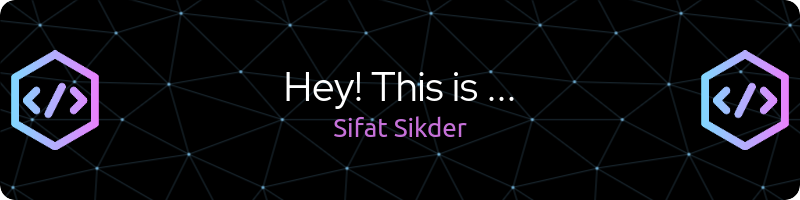
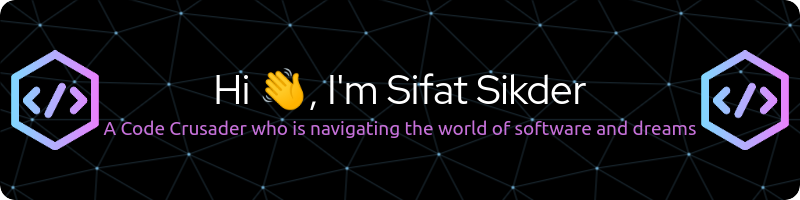
edited

Changed region(s): [[0.25, 0.33, 0.75, 0.57], [0.125, 0.57, 0.875, 0.69]]

diff --git a/README.md b/README.md
@@ -1,122 +1,29 @@
-<div align="center" style="background-color:#222; padding: 20px;">
-  <img src="https://readme-typing-svg.herokuapp.com?font=Pacifico&color=%000000&size=32&center=true&vCenter=true&width=500&height=60&lines=----+Hey%2C+This+is+Sifat+%F0%9F%98%83+----&repeat=false">
-</div>
-<p align="center">
-  <a href="https://github.com/DenverCoder1/readme-typing-svg"><img src="https://readme-typing-svg.herokuapp.com?font=Poppins&color=%000000&size=25&center=true&vCenter=true&width=600&height=100&lines=A+Software+Engineering+Enthuasist;Creating+captivating+digital+experiences;Software+Engineering+Student+from+IIT+DU;"></a>
-</p>
+![Header](./github-header-image.png)
+<h1 align="center">Hi 👋, I'm Sifat Sikder</h1>
+<h3 align="center">A Code Crusader who is navigating the world of software and dreams</h3>
+<img align="right" alt="Coding" width="400" src="https://cdn.dribbble.com/users/116207...">
+<p align="left"> <img src="https://komarev.com/ghpvc/?username=sifatsikder&label=Profile%20views&color=0e75b6&style=flat" alt="sifatsikder" /> </p>
 
+<p align="left"> <a href="https://github.com/ryo-ma/github-profile-trophy"><img src="https://github-profile-trophy.vercel.app/?username=sifatsikder" alt="sifatsikder" /></a> </p>
 
-🌱 My ongoing learning journey encompasses **Flutter, Artificial Intelligence and Distributed Systems**.
+- 🔭 I’m currently working on [CodeWhisperer](https://github.com/SifatSikder/CodeWhisperer-AI-Project.git)
 
-👯 I am eagerly seeking collaboration opportunities for **Web and Mobile App development projects**.
+- 🌱 I’m currently learning **nextjs,speech to text generation and machine learning basics**
 
-💬 Feel free to reach out to me for discussions on **Flutter,Nodejs, ExpressJs, Mongodb, Java, and JavaScript.**
+- 📫 How to reach me **sikdersifat29@gmail.com**
 
-📫 You can contact me at **sikdersifat29@gmail.com.**
-<br> <br>
-<h3 align="left">Connect with me:</h3> 
+- ⚡ Fun fact **I am a late-night debugger,coffee connoisseurs,keyboard shortcut master**
+
+<h3 align="left">Connect with me:</h3>
 <p align="left">
-<a href="www.linkedin.com/in/sifatsikder1221" target="blank"><img align="center" src="https://raw.githubusercontent.com/rahuldkjain/github-profile-readme-generator/master/src/images/icons/Social/linked-in-alt.svg" alt="sifatsikder1221" height="30" width="40" /></a>
-<a href="https://www.facebook.com/sifat.sikder.1221/" target="blank"><img align="center" src="https://raw.githubusercontent.com/rahuldkjain/github-profile-readme-generator/master/src/images/icons/Social/facebook.svg" alt="Sifat Sikder (Friendly Neighbourhood Venom)" height="30" width="40" /></a>
+<a href="https://linkedin.com/in/www.linkedin.com/in/sifatsikder1221" target="blank"><img align="center" src="https://raw.githubusercontent.com/rahuldkjain/github-profile-readme-generator/master/src/images/icons/Social/linked-in-alt.svg" alt="www.linkedin.com/in/sifatsikder1221" height="30" width="40" /></a>
 </p>
 
-<br>
-<h3>Profile Statistics:</h3>
+<h3 align="left">Languages and Tools:</h3>
+<p align="left"> <a href="https://developer.android.com" target="_blank" rel="noreferrer"> <img src="https://raw.githubusercontent.com/devicons/devicon/master/icons/android/android-original-wordmark.svg" alt="android" width="40" height="40"/> </a> <a href="https://angular.io" target="_blank" rel="noreferrer"> <img src="https://angular.io/assets/images/logos/angular/angular.svg" alt="angular" width="40" height="40"/> </a> <a href="https://getbootstrap.com" target="_blank" rel="noreferrer"> <img src="https://raw.githubusercontent.com/devicons/devicon/master/icons/bootstrap/bootstrap-plain-wordmark.svg" alt="bootstrap" width="40" height="40"/> </a> <a href="https://www.cprogramming.com/" target="_blank" rel="noreferrer"> <img src="https://raw.githubusercontent.com/devicons/devicon/master/icons/c/c-original.svg" alt="c" width="40" height="40"/> </a> <a href="https://www.w3schools.com/cpp/" target="_blank" rel="noreferrer"> <img src="https://raw.githubusercontent.com/devicons/devicon/master/icons/cplusplus/cplusplus-original.svg" alt="cplusplus" width="40" height="40"/> </a> <a href="https://www.w3schools.com/css/" target="_blank" rel="noreferrer"> <img src="https://raw.githubusercontent.com/devicons/devicon/master/icons/css3/css3-original-wordmark.svg" alt="css3" width="40" height="40"/> </a> <a href="https://dart.dev" target="_blank" rel="noreferrer"> <img src="https://www.vectorlogo.zone/logos/dartlang/dartlang-icon.svg" alt="dart" width="40" height="40"/> </a> <a href="https://www.docker.com/" target="_blank" rel="noreferrer"> <img src="https://raw.githubusercontent.com/devicons/devicon/master/icons/docker/docker-original-wordmark.svg" alt="docker" width="40" height="40"/> </a> <a href="https://expressjs.com" target="_blank" rel="noreferrer"> <img src="https://raw.githubusercontent.com/devicons/devicon/master/icons/express/express-original-wordmark.svg" alt="express" width="40" height="40"/> </a> <a href="https://flutter.dev" target="_blank" rel="noreferrer"> <img src="https://www.vectorlogo.zone/logos/flutterio/flutterio-icon.svg" alt="flutter" width="40" height="40"/> </a> <a href="https://www.framer.com/" target="_blank" rel="noreferrer"> <img src="https://www.vectorlogo.zone/logos/framer/framer-icon.svg" alt="framer" width="40" height="40"/> </a> <a href="https://git-scm.com/" target="_blank" rel="noreferrer"> <img src="https://www.vectorlogo.zone/logos/git-scm/git-scm-icon.svg" alt="git" width="40" height="40"/> </a> <a href="https://www.w3.org/html/" target="_blank" rel="noreferrer"> <img src="https://raw.githubusercontent.com/devicons/devicon/master/icons/html5/html5-original-wordmark.svg" alt="html5" width="40" height="40"/> </a> <a href="https://www.java.com" target="_blank" rel="noreferrer"> <img src="https://raw.githubusercontent.com/devicons/devicon/master/icons/java/java-original.svg" alt="java" width="40" height="40"/> </a> <a href="https://developer.mozilla.org/en-US/docs/Web/JavaScript" target="_blank" rel="noreferrer"> <img src="https://raw.githubusercontent.com/devicons/devicon/master/icons/javascript/javascript-original.svg" alt="javascript" width="40" height="40"/> </a> <a href="https://jestjs.io" target="_blank" rel="noreferrer"> <img src="https://www.vectorlogo.zone/logos/jestjsio/jestjsio-icon.svg" alt="jest" width="40" height="40"/> </a> <a href="https://www.linux.org/" target="_blank" rel="noreferrer"> <img src="https://raw.githubusercontent.com/devicons/devicon/master/icons/linux/linux-original.svg" alt="linux" width="40" height="40"/> </a> <a href="https://www.mongodb.com/" target="_blank" rel="noreferrer"> <img src="https://raw.githubusercontent.com/devicons/devicon/master/icons/mongodb/mongodb-original-wordmark.svg" alt="mongodb" width="40" height="40"/> </a> <a href="https://www.mysql.com/" target="_blank" rel="noreferrer"> <img src="https://raw.githubusercontent.com/devicons/devicon/master/icons/mysql/mysql-original-wordmark.svg" alt="mysql" width="40" height="40"/> </a> <a href="https://nextjs.org/" target="_blank" rel="noreferrer"> <img src="https://cdn.worldvectorlogo.com/logos/nextjs-2.svg" alt="nextjs" width="40" height="40"/> </a> <a href="https://www.nginx.com" target="_blank" rel="noreferrer"> <img src="https://raw.githubusercontent.com/devicons/devicon/master/icons/nginx/nginx-original.svg" alt="nginx" width="40" height="40"/> </a> <a href="https://nodejs.org" target="_blank" rel="noreferrer"> <img src="https://raw.githubusercontent.com/devicons/devicon/master/icons/nodejs/nodejs-original-wordmark.svg" alt="nodejs" width="40" height="40"/> </a> <a href="https://www.php.net" target="_blank" rel="noreferrer"> <img src="https://raw.githubusercontent.com/devicons/devicon/master/icons/php/php-original.svg" alt="php" width="40" height="40"/> </a> <a href="https://postman.com" target="_blank" rel="noreferrer"> <img src="https://www.vectorlogo.zone/logos/getpostman/getpostman-icon.svg" alt="postman" width="40" height="40"/> </a> <a href="https://www.python.org" target="_blank" rel="noreferrer"> <img src="https://raw.githubusercontent.com/devicons/devicon/master/icons/python/python-original.svg" alt="python" width="40" height="40"/> </a> <a href="https://reactjs.org/" target="_blank" rel="noreferrer"> <img src="https://raw.githubusercontent.com/devicons/devicon/master/icons/react/react-original-wordmark.svg" alt="react" width="40" height="40"/> </a> <a href="https://www.selenium.dev" target="_blank" rel="noreferrer"> <img src="https://raw.githubusercontent.com/detain/svg-logos/780f25886640cef088af994181646db2f6b1a3f8/svg/selenium-logo.svg" alt="selenium" width="40" height="40"/> </a> <a href="https://www.typescriptlang.org/" target="_blank" rel="noreferrer"> <img src="https://raw.githubusercontent.com/devicons/devicon/master/icons/typescript/typescript-original.svg" alt="typescript" width="40" height="40"/> </a> </p>
 
-![](http://github-profile-summary-cards.vercel.app/api/cards/profile-details?username=SifatSikder&theme=darcula)
+<p><img align="left" src="https://github-readme-stats.vercel.app/api/top-langs?username=sifatsikder&show_icons=true&locale=en&layout=compact" alt="sifatsikder" /></p>
 
-![](http://github-profile-summary-cards.vercel.app/api/cards/repos-per-language?username=SifatSikder&theme=darcula)
-![](http://github-profile-summary-cards.vercel.app/api/cards/most-commit-language?username=SifatSikder&theme=darcula)
-![](http://github-profile-summary-cards.vercel.app/api/cards/stats?username=SifatSikder&theme=darcula)
-![](http://github-profile-summary-cards.vercel.app/api/cards/productive-time?username=SifatSikder&theme=darcula&utcOffset=8)
+<p>&nbsp;<img align="center" src="https://github-readme-stats.vercel.app/api?username=sifatsikder&show_icons=true&locale=en" alt="sifatsikder" /></p>
 
-<h3>Profile Streak:</h3> 
-
-[![GitHub Streak](https://streak-stats.demolab.com/?user=SifatSikder&theme=darcula)](https://git.io/streak-stats) 
-
-<br>
-<h3>Skills & Expertise:</h3>
-
-**📋 Lanuages:**
-
-![C](https://img.shields.io/badge/c-%2300599C.svg?style=for-the-badge&logo=c&logoColor=white)
-![C++](https://img.shields.io/badge/c++-%2300599C.svg?style=for-the-badge&logo=c%2B%2B&logoColor=white)
-![Dart](https://img.shields.io/badge/dart-%230175C2.svg?style=for-the-badge&logo=dart&logoColor=white)
-![HTML5](https://img.shields.io/badge/html5-%23E34F26.svg?style=for-the-badge&logo=html5&logoColor=white)
-![Java](https://img.shields.io/badge/java-%23ED8B00.svg?style=for-the-badge&logo=openjdk&logoColor=white)
-![JavaScript](https://img.shields.io/badge/javascript-%23323330.svg?style=for-the-badge&logo=javascript&logoColor=%23F7DF1E)
-![PHP](https://img.shields.io/badge/php-%23777BB4.svg?style=for-the-badge&logo=php&logoColor=white)
-![Python](https://img.shields.io/badge/python-3670A0?style=for-the-badge&logo=python&logoColor=ffdd54)
-![TypeScript](https://img.shields.io/badge/typescript-%23007ACC.svg?style=for-the-badge&logo=typescript&logoColor=white)
-![CSS3](https://img.shields.io/badge/css3-%231572B6.svg?style=for-the-badge&logo=css3&logoColor=white)
-
-
-**📚 Frameworks & Platforms:**
-
-![Angular](https://img.shields.io/badge/angular-%23DD0031.svg?style=for-the-badge&logo=angular&logoColor=white)
-![Bootstrap](https://img.shields.io/badge/bootstrap-%238511FA.svg?style=for-the-badge&logo=bootstrap&logoColor=white)
-![FastAPI](https://img.shields.io/badge/FastAPI-005571?style=for-the-badge&logo=fastapi)
-![Flutter](https://img.shields.io/badge/Flutter-%2302569B.svg?style=for-the-badge&logo=Flutter&logoColor=white)
-![NodeJS](https://img.shields.io/badge/node.js-6DA55F?style=for-the-badge&logo=node.js&logoColor=white)
-
-
-**💾 Database:**
-
-![Firebase](https://img.shields.io/badge/Firebase-039BE5?style=for-the-badge&logo=Firebase&logoColor=white)
-![MongoDB](https://img.shields.io/badge/MongoDB-%234ea94b.svg?style=for-the-badge&logo=mongodb&logoColor=white)
-![MySQL](https://img.shields.io/badge/mysql-%2300f.svg?style=for-the-badge&logo=mysql&logoColor=white)
-
-**🖥 ML/DL:**
-
-![NumPy](https://img.shields.io/badge/numpy-%23013243.svg?style=for-the-badge&logo=numpy&logoColor=white)
-![Pandas](https://img.shields.io/badge/pandas-%23150458.svg?style=for-the-badge&logo=pandas&logoColor=white)
-![PyTorch](https://img.shields.io/badge/PyTorch-%23EE4C2C.svg?style=for-the-badge&logo=PyTorch&logoColor=white)
-![scikit-learn](https://img.shields.io/badge/scikit--learn-%23F7931E.svg?style=for-the-badge&logo=scikit-learn&logoColor=white)
-![Matplotlib](https://img.shields.io/badge/Matplotlib-%23ffffff.svg?style=for-the-badge&logo=Matplotlib&logoColor=black)
-
-**🎛 Operating System:**
-
-![Android](https://img.shields.io/badge/Android-3DDC84?style=for-the-badge&logo=android&logoColor=white)
-![Linux](https://img.shields.io/badge/Linux-FCC624?style=for-the-badge&logo=linux&logoColor=black)
-![Ubuntu](https://img.shields.io/badge/Ubuntu-E95420?style=for-the-badge&logo=ubuntu&logoColor=white)
-![Windows](https://img.shields.io/badge/Windows-0078D6?style=for-the-badge&logo=windows&logoColor=white)
-
-**🕓 Version Control:**
-
-![Git](https://img.shields.io/badge/git-%23F05033.svg?style=for-the-badge&logo=git&logoColor=white)
-![GitHub](https://img.shields.io/badge/github-%23121011.svg?style=for-the-badge&logo=github&logoColor=white)
-
-**💻 IDEs/Editors:**
-
-
-![Android Studio](https://img.shields.io/badge/Android%20Studio-3DDC84.svg?style=for-the-badge&logo=android-studio&logoColor=white)
-![Eclipse](https://img.shields.io/badge/Eclipse-FE7A16.svg?style=for-the-badge&logo=Eclipse&logoColor=white)
-![IntelliJ IDEA](https://img.shields.io/badge/IntelliJIDEA-000000.svg?style=for-the-badge&logo=intellij-idea&logoColor=white)
-![Jupyter Notebook](https://img.shields.io/badge/jupyter-%23FA0F00.svg?style=for-the-badge&logo=jupyter&logoColor=white)
-![NetBeans IDE](https://img.shields.io/badge/NetBeansIDE-1B6AC6.svg?style=for-the-badge&logo=apache-netbeans-ide&logoColor=white)
-![Notepad++](https://img.shields.io/badge/Notepad++-90E59A.svg?style=for-the-badge&logo=notepad%2b%2b&logoColor=black)
-![Visual Studio Code](https://img.shields.io/badge/Visual%20Studio%20Code-0078d7.svg?style=for-the-badge&logo=visual-studio-code&logoColor=white)
-
-
-**🎨 Design:**
-
-![Adobe XD](https://img.shields.io/badge/Adobe%20XD-470137?style=for-the-badge&logo=Adobe%20XD&logoColor=#FF61F6)
-![Canva](https://img.shields.io/badge/Canva-%2300C4CC.svg?style=for-the-badge&logo=Canva&logoColor=white)
-![Dribbble](https://img.shields.io/badge/Dribbble-EA4C89?style=for-the-badge&logo=dribbble&logoColor=white)
-![Figma](https://img.shields.io/badge/figma-%23F24E1E.svg?style=for-the-badge&logo=figma&logoColor=white)
-
-
-**🏢 Office:**
-
-![LibreOffice](https://img.shields.io/badge/LibreOffice-%2318A303?style=for-the-badge&logo=LibreOffice&logoColor=white)
-![Microsoft](https://img.shields.io/badge/Microsoft-0078D4?style=for-the-badge&logo=microsoft&logoColor=white)
-![Microsoft Excel](https://img.shields.io/badge/Microsoft_Excel-217346?style=for-the-badge&logo=microsoft-excel&logoColor=white)
-![Microsoft Office](https://img.shields.io/badge/Microsoft_Office-D83B01?style=for-the-badge&logo=microsoft-office&logoColor=white)
-![Microsoft PowerPoint](https://img.shields.io/badge/Microsoft_PowerPoint-B7472A?style=for-the-badge&logo=microsoft-powerpoint&logoColor=white)
-![Microsoft Word](https://img.shields.io/badge/Microsoft_Word-2B579A?style=for-the-badge&logo=microsoft-word&logoColor=white)
-
-
- 
-
-
-
+<p><img align="center" src="https://github-readme-streak-stats.herokuapp.com/?user=sifatsikder&" alt="sifatsikder" /></p>
